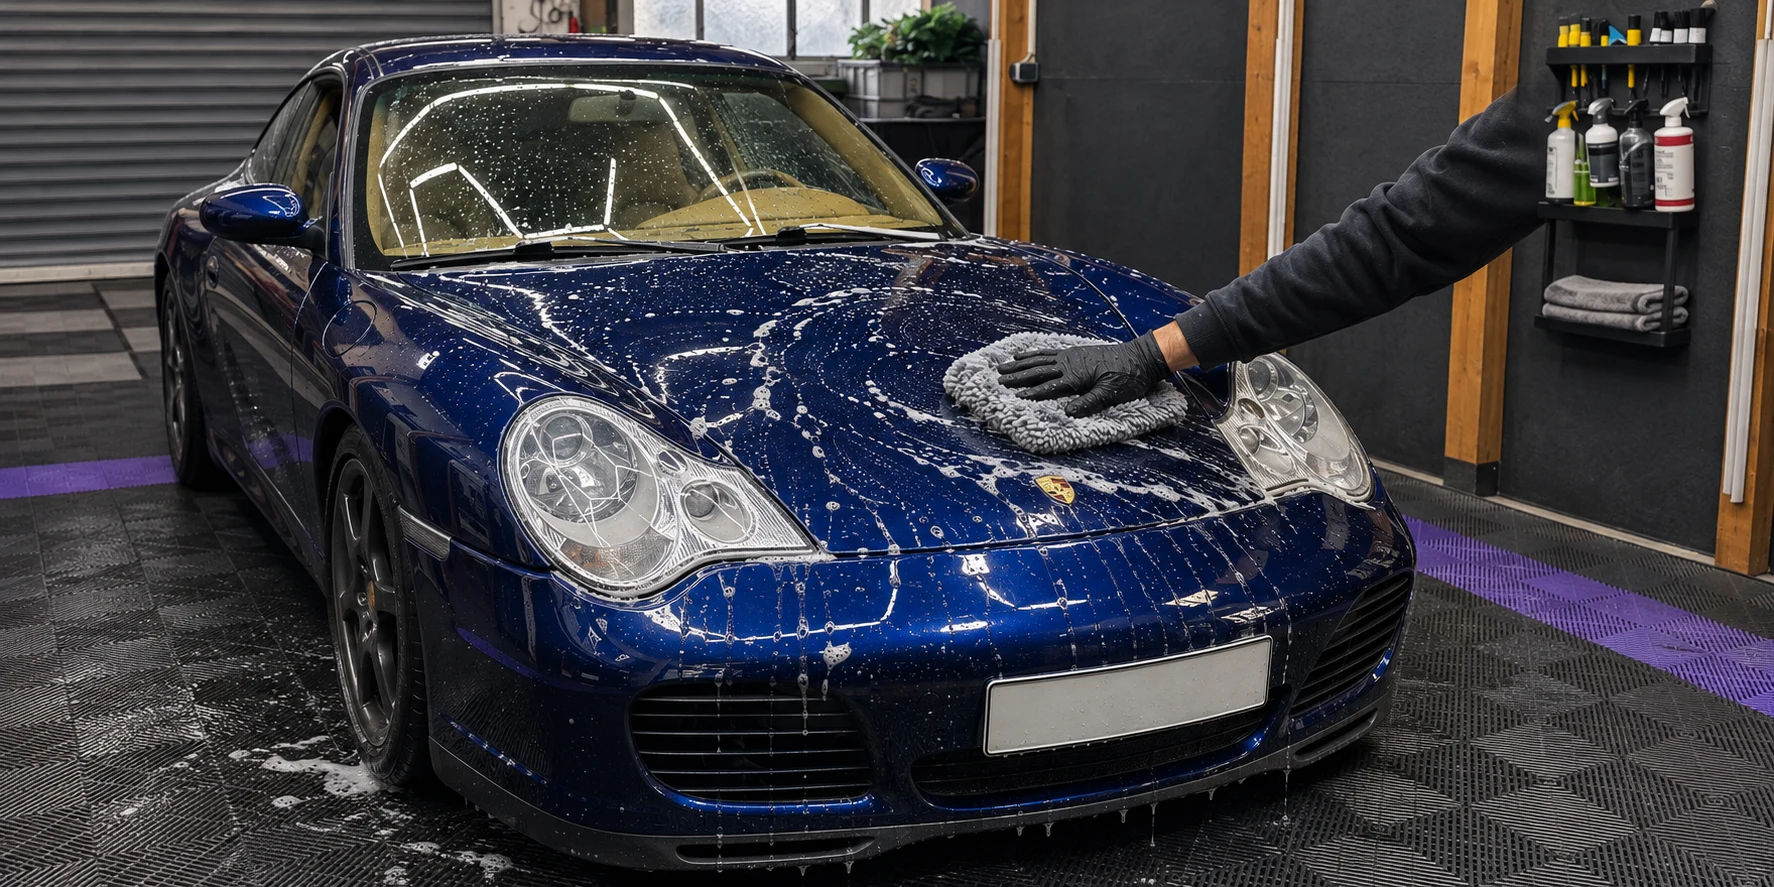
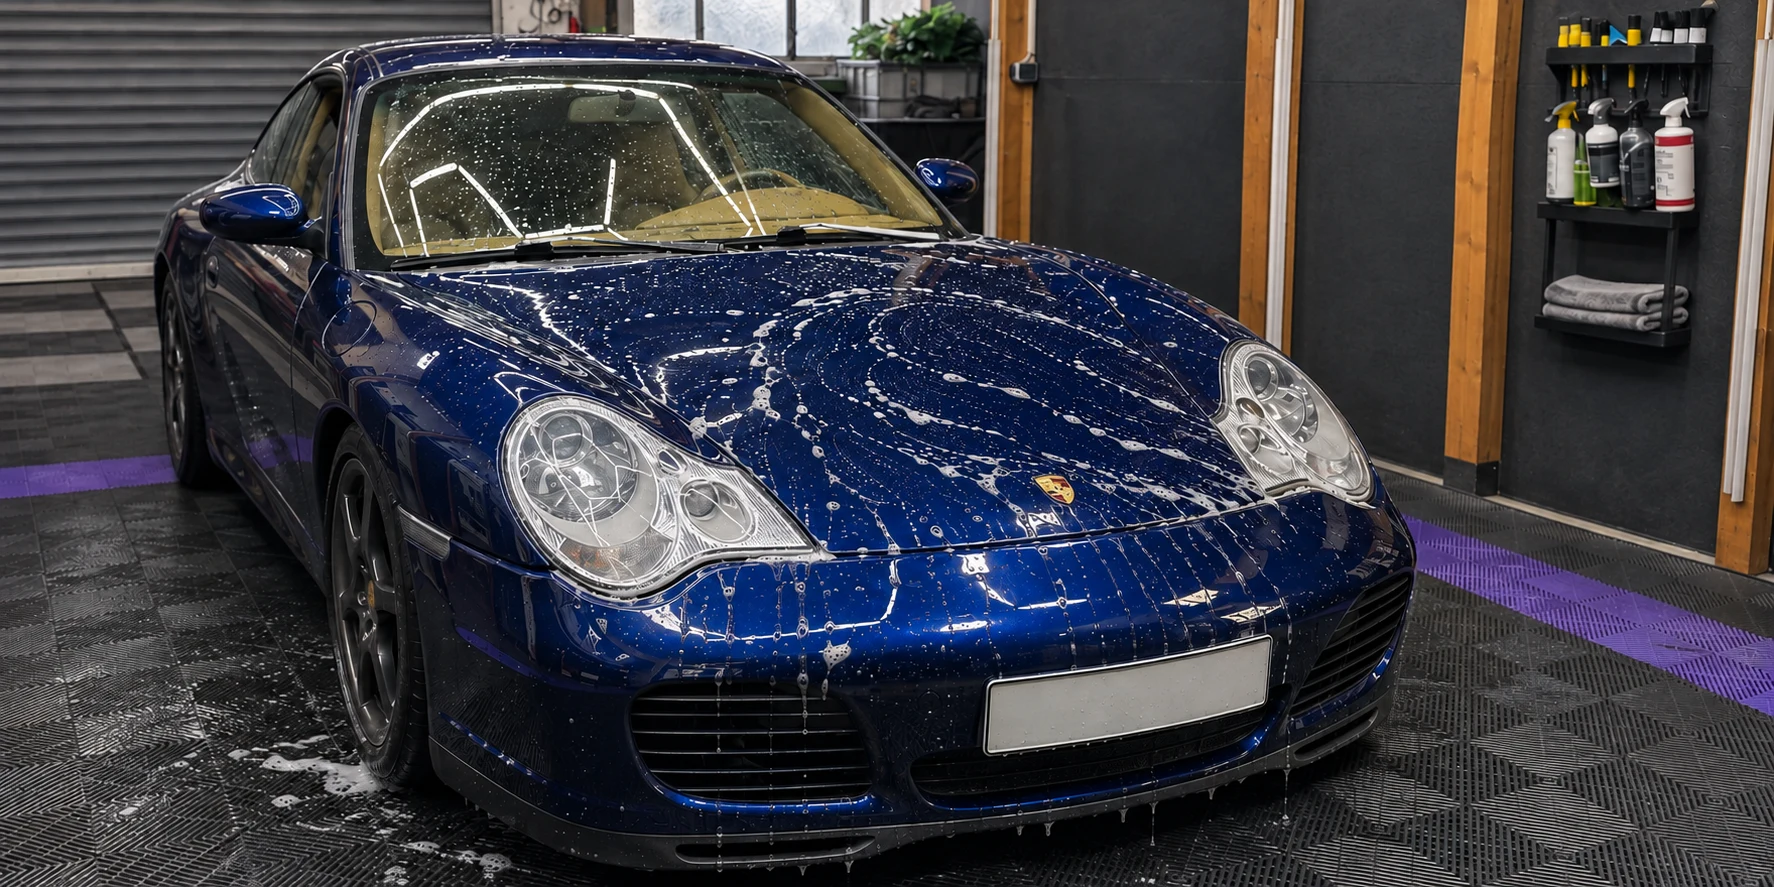
Leistungsbilder: Arme und Tücher entfernt

diff --git a/a-streiflicht/preisliste/index.html b/a-streiflicht/preisliste/index.html
@@ -122,7 +122,7 @@
         </div>
       </article>
       <article class="paket" id="innen">
-        <figure class="streif"><img src="../../assets/bilder/innenaufbereitung-ki.webp" alt="Symbolbild, mit KI erstellt: behandschuhte Hand reinigt den Ledersitz eines Porsche 996" loading="lazy" /><span class="ki-marke">KI-Bild</span></figure>
+        <figure class="streif"><img src="../../assets/bilder/innenaufbereitung-ki.webp?v=2" alt="Symbolbild, mit KI erstellt: ockerfarbener Lederinnenraum eines Porsche 996" loading="lazy" /><span class="ki-marke">KI-Bild</span></figure>
         <div class="inhalt">
           <div class="oben"><h2>Innen&shy;aufbereitung</h2><span class="preis"><small>ab</small>99 €</span></div>
           <ul class="haken">
@@ -136,7 +136,7 @@
         </div>
       </article>
       <article class="paket" id="aussen">
-        <figure class="streif"><img src="../../assets/bilder/aussenwaesche-premium-ki.webp" alt="Symbolbild, mit KI erstellt: Handwäsche eines blauen Porsche 996 mit Waschhandschuh" loading="lazy" /><span class="ki-marke">KI-Bild</span></figure>
+        <figure class="streif"><img src="../../assets/bilder/aussenwaesche-premium-ki.webp?v=2" alt="Symbolbild, mit KI erstellt: blauer Porsche 996 mit Waschschaum" loading="lazy" /><span class="ki-marke">KI-Bild</span></figure>
         <div class="inhalt">
           <div class="oben"><h2>Außenwäsche Premium</h2><span class="preis"><small>ab</small>59 €</span></div>
           <ul class="haken">

diff --git a/a-streiflicht/index.html b/a-streiflicht/index.html
@@ -276,7 +276,7 @@
           <div class="kachel-text"><span class="preis">ab 799 €</span><h3>Keramik&shy;versiegelung</h3></div>
         </a>
         <a class="kachel" href="preisliste/#innen">
-          <img src="../assets/bilder/innenaufbereitung-ki.webp" alt="Symbolbild, mit KI erstellt: behandschuhte Hand reinigt den Ledersitz eines Porsche 996" loading="lazy" /><span class="ki-marke">KI-Bild</span>
+          <img src="../assets/bilder/innenaufbereitung-ki.webp?v=2" alt="Symbolbild, mit KI erstellt: ockerfarbener Lederinnenraum eines Porsche 996" loading="lazy" /><span class="ki-marke">KI-Bild</span>
           <div class="kachel-text"><span class="preis">ab 99 €</span><h3>Innenraum</h3></div>
         </a>
         <a class="kachel" href="kontakt/">
